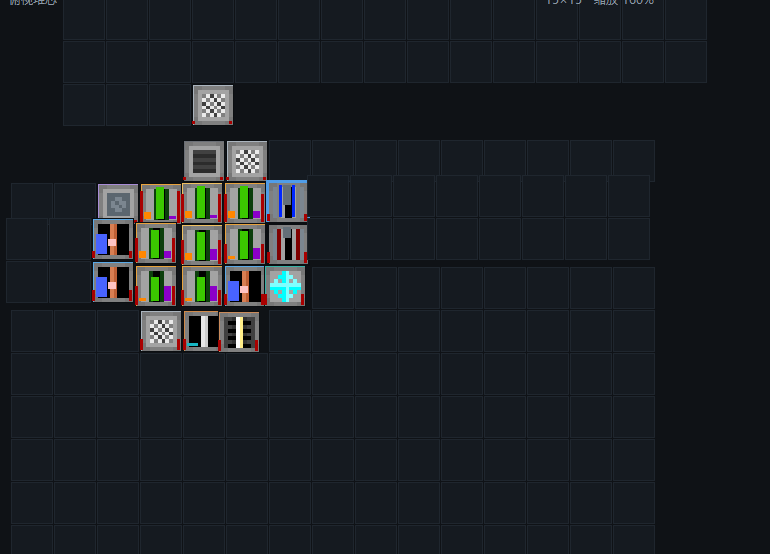
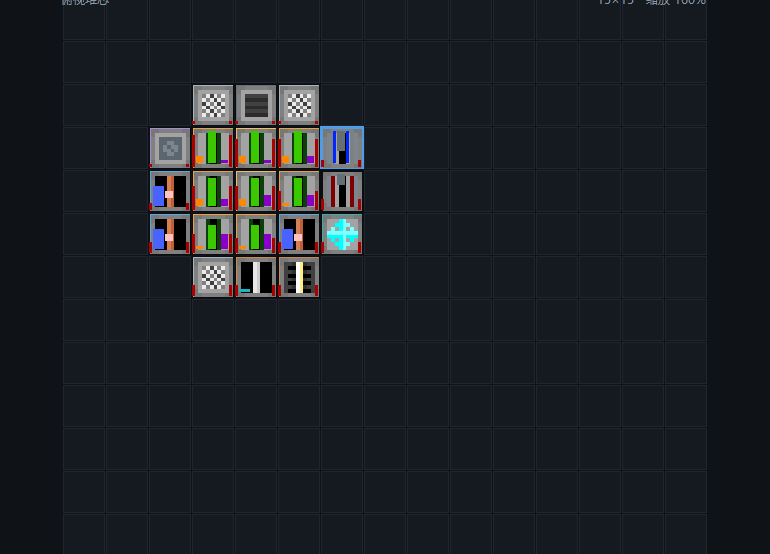
修复主界面错乱：绘制控制台叠加层时循环变量 ox/oy/sc 覆盖了网格原点变量，导致每格坐标被叠加层坐标顶替、后续格子全部画到错误位置；改用 lx/ly/lw/lh/scale 并新增网格对齐回归测试（147项测试通过）

Changed region(s): [[0.0935, 0.1534, 0.4987, 0.6444], [0.0, 0.0, 0.1558, 0.0307], [0.7792, 0.0, 0.9039, 0.0307]]

diff --git a/tests/test_ui.py b/tests/test_ui.py
@@ -756,3 +756,44 @@ def test_open_console_creates_and_reuses_window():
         win.console_window = None
     finally:
         root.destroy()
+
+
+def test_grid_cells_stay_aligned_when_overlays_drawn():
+    """回归：绘制叠加层时不得覆盖网格原点变量，所有格子必须落在网格坐标上。"""
+    from rbmk.model.components import ComponentType
+    win, root = _fresh()
+    try:
+        ge = win.grid_editor
+        cs = ge.cell
+        ox, oy = ge._origin()
+        # 两个燃料格 + 一个蒸汽管道格，确保叠加层被绘制
+        win.model.place(2, 2, ComponentType.RBMK_ROD)
+        c = win.model.cell_at(2, 2)
+        c.fuel = "rbmk_fuel_flashlead"
+        c.shown_temp = 770.0
+        c.hull_heat = 300.0
+        c.xenon = 40.0
+        win.model.place(5, 6, ComponentType.RBMK_BOILER)
+        ge.redraw()
+        cv = ge.canvas
+        boxes = [cv.coords(i) for i in cv.find_all() if cv.type(i) == "rectangle"]
+        # 每个格子背景矩形（尺寸≈cs）都应严格对齐 (ox+2+c*(cs+2), oy+2+r*(cs+2), +cs)
+        backgrounds = [b for b in boxes
+                       if abs((b[2] - b[0]) - cs) < 1.5 and abs((b[3] - b[1]) - cs) < 1.5]
+        assert len(backgrounds) >= win.model.rows * win.model.cols - 1
+        for b in backgrounds:
+            dx = (b[0] - (ox + 2)) % (cs + 2)
+            dy = (b[1] - (oy + 2)) % (cs + 2)
+            assert min(dx, cs + 2 - dx) < 1.5, f"矩形 x 未对齐网格: {b}"
+            assert min(dy, cs + 2 - dy) < 1.5, f"矩形 y 未对齐网格: {b}"
+        # 燃料格背景必须存在于预期坐标
+        x = ox + 2 + 2 * (cs + 2)
+        y = oy + 2 + 2 * (cs + 2)
+        assert any(abs(b[0] - x) < 1 and abs(b[1] - y) < 1 and b[2] - b[0] >= cs - 1 for b in boxes)
+        # 不得有格子被推到网格区域外
+        right = ox + 2 + win.model.cols * (cs + 2)
+        bottom = oy + 2 + win.model.rows * (cs + 2)
+        for b in boxes:
+            assert b[2] <= right and b[3] <= bottom, f"图元超出网格区域: {b}"
+    finally:
+        root.destroy()

diff --git a/rbmk/app/grid_editor.py b/rbmk/app/grid_editor.py
@@ -146,10 +146,10 @@ class GridEditor(tk.Frame):
                                        text=COMPONENT_SHORT[cell.comp],
                                        fill="#0b0e11", font=(theme.FAMILY, max(6, cs // 4)))
                     # 控制台叠加层：热量红线 / 燃料三色条 / 水条与蒸汽类型点 / 分组色与插入条
-                    sc = cs / 10.0
-                    for ox, oy, ow, oh, color in column_overlays(cell, self.app.model):
-                        cv.create_rectangle(x + ox * sc, y + oy * sc,
-                                            x + (ox + ow) * sc - 1, y + (oy + oh) * sc - 1,
+                    scale = cs / 10.0
+                    for lx, ly, lw, lh, color in column_overlays(cell, self.app.model):
+                        cv.create_rectangle(x + lx * scale, y + ly * scale,
+                                            x + (lx + lw) * scale - 1, y + (ly + lh) * scale - 1,
                                             fill="#%02x%02x%02x" % color, outline="", width=0)
         if self.selected:
             sr, sc = self.selected
